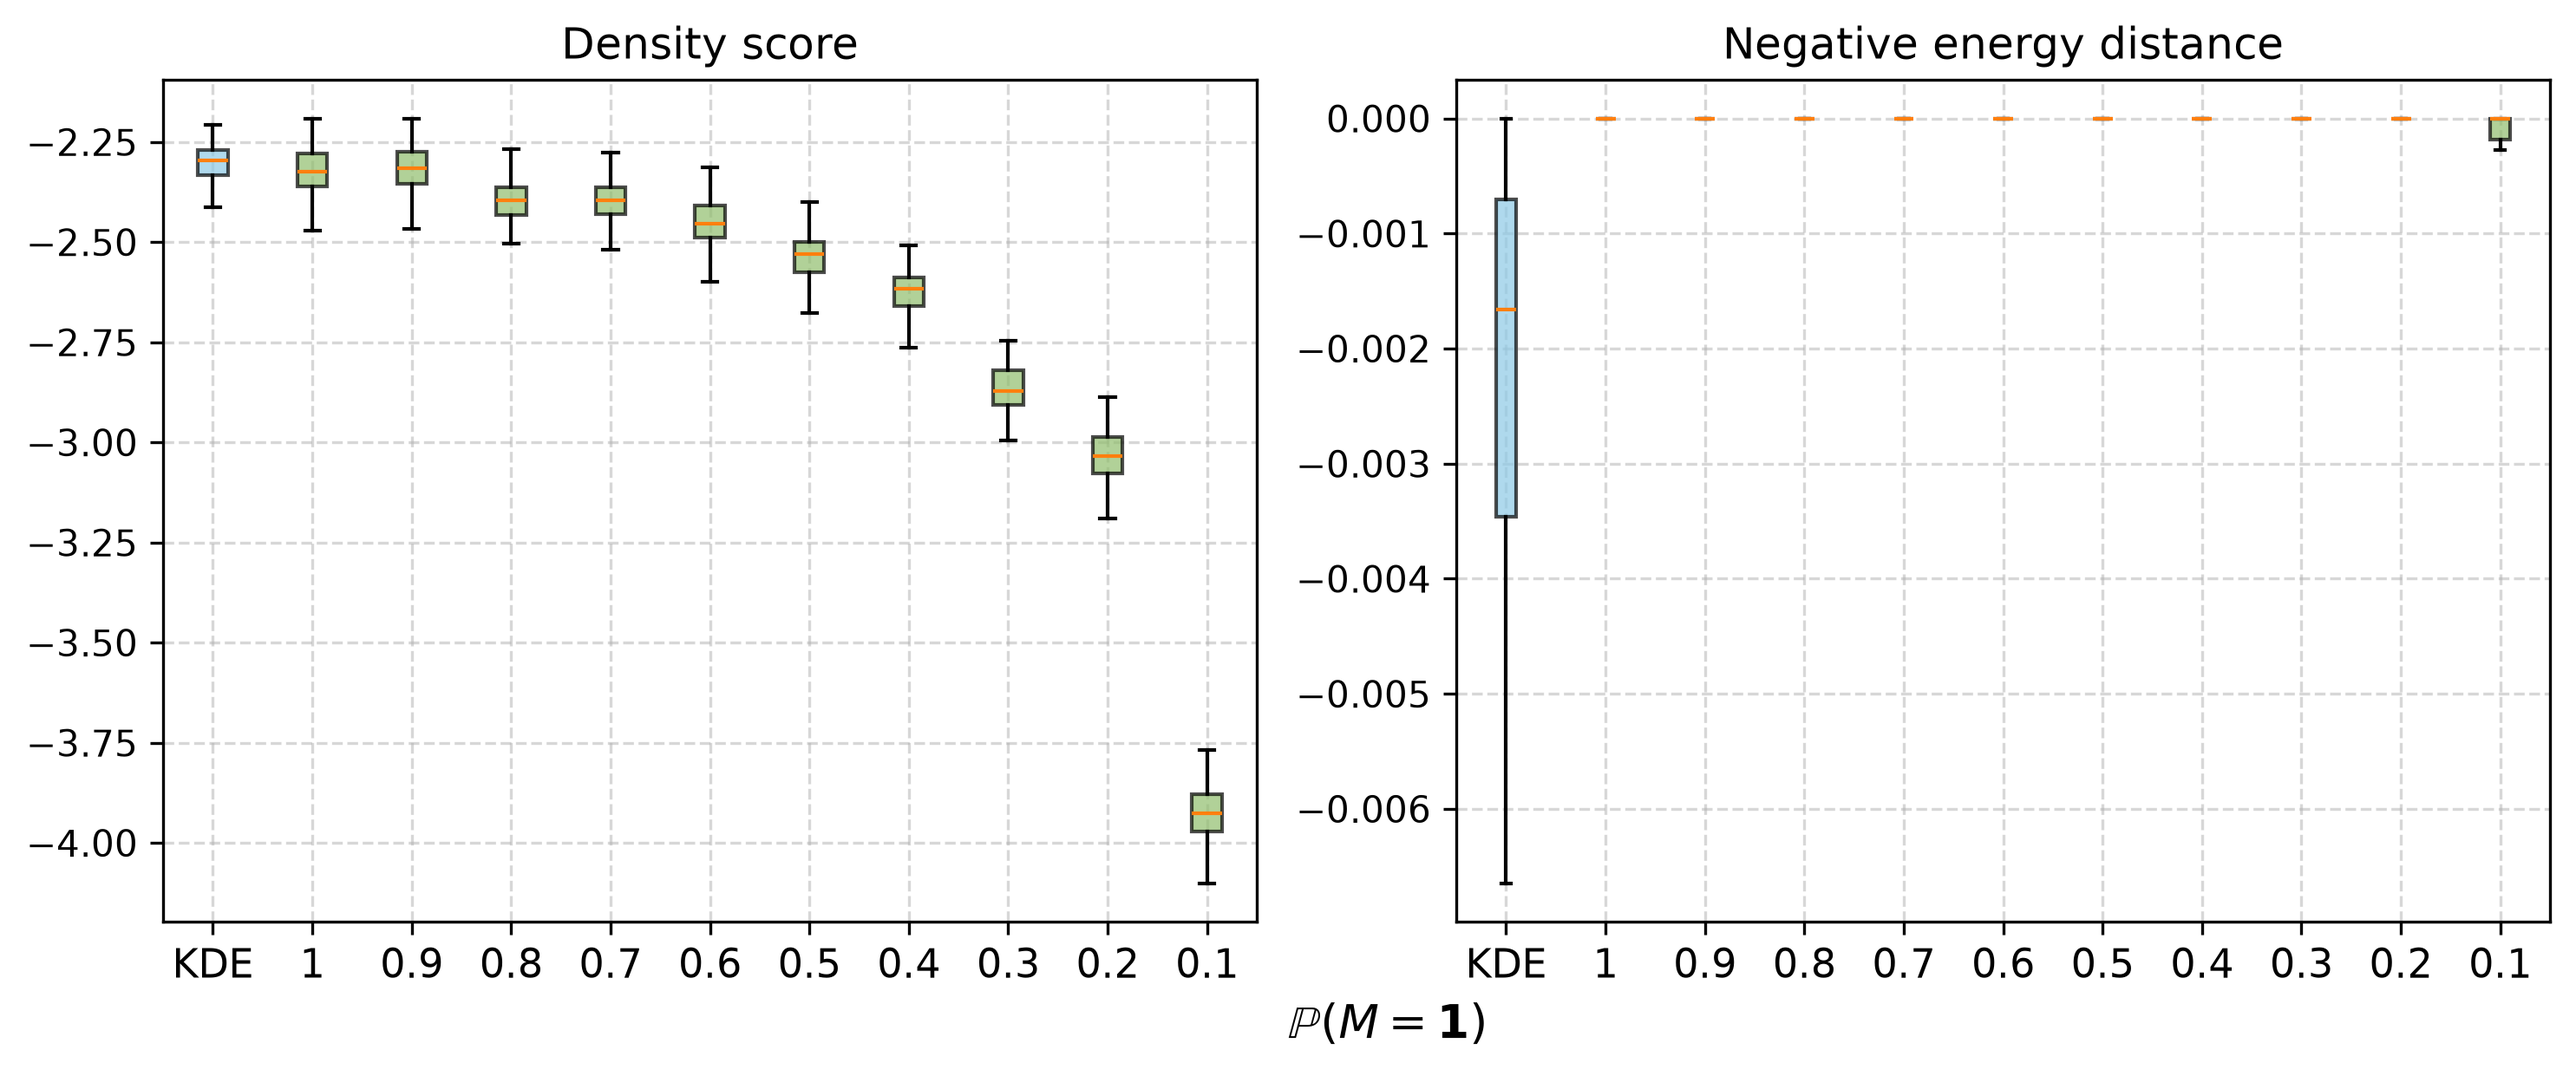
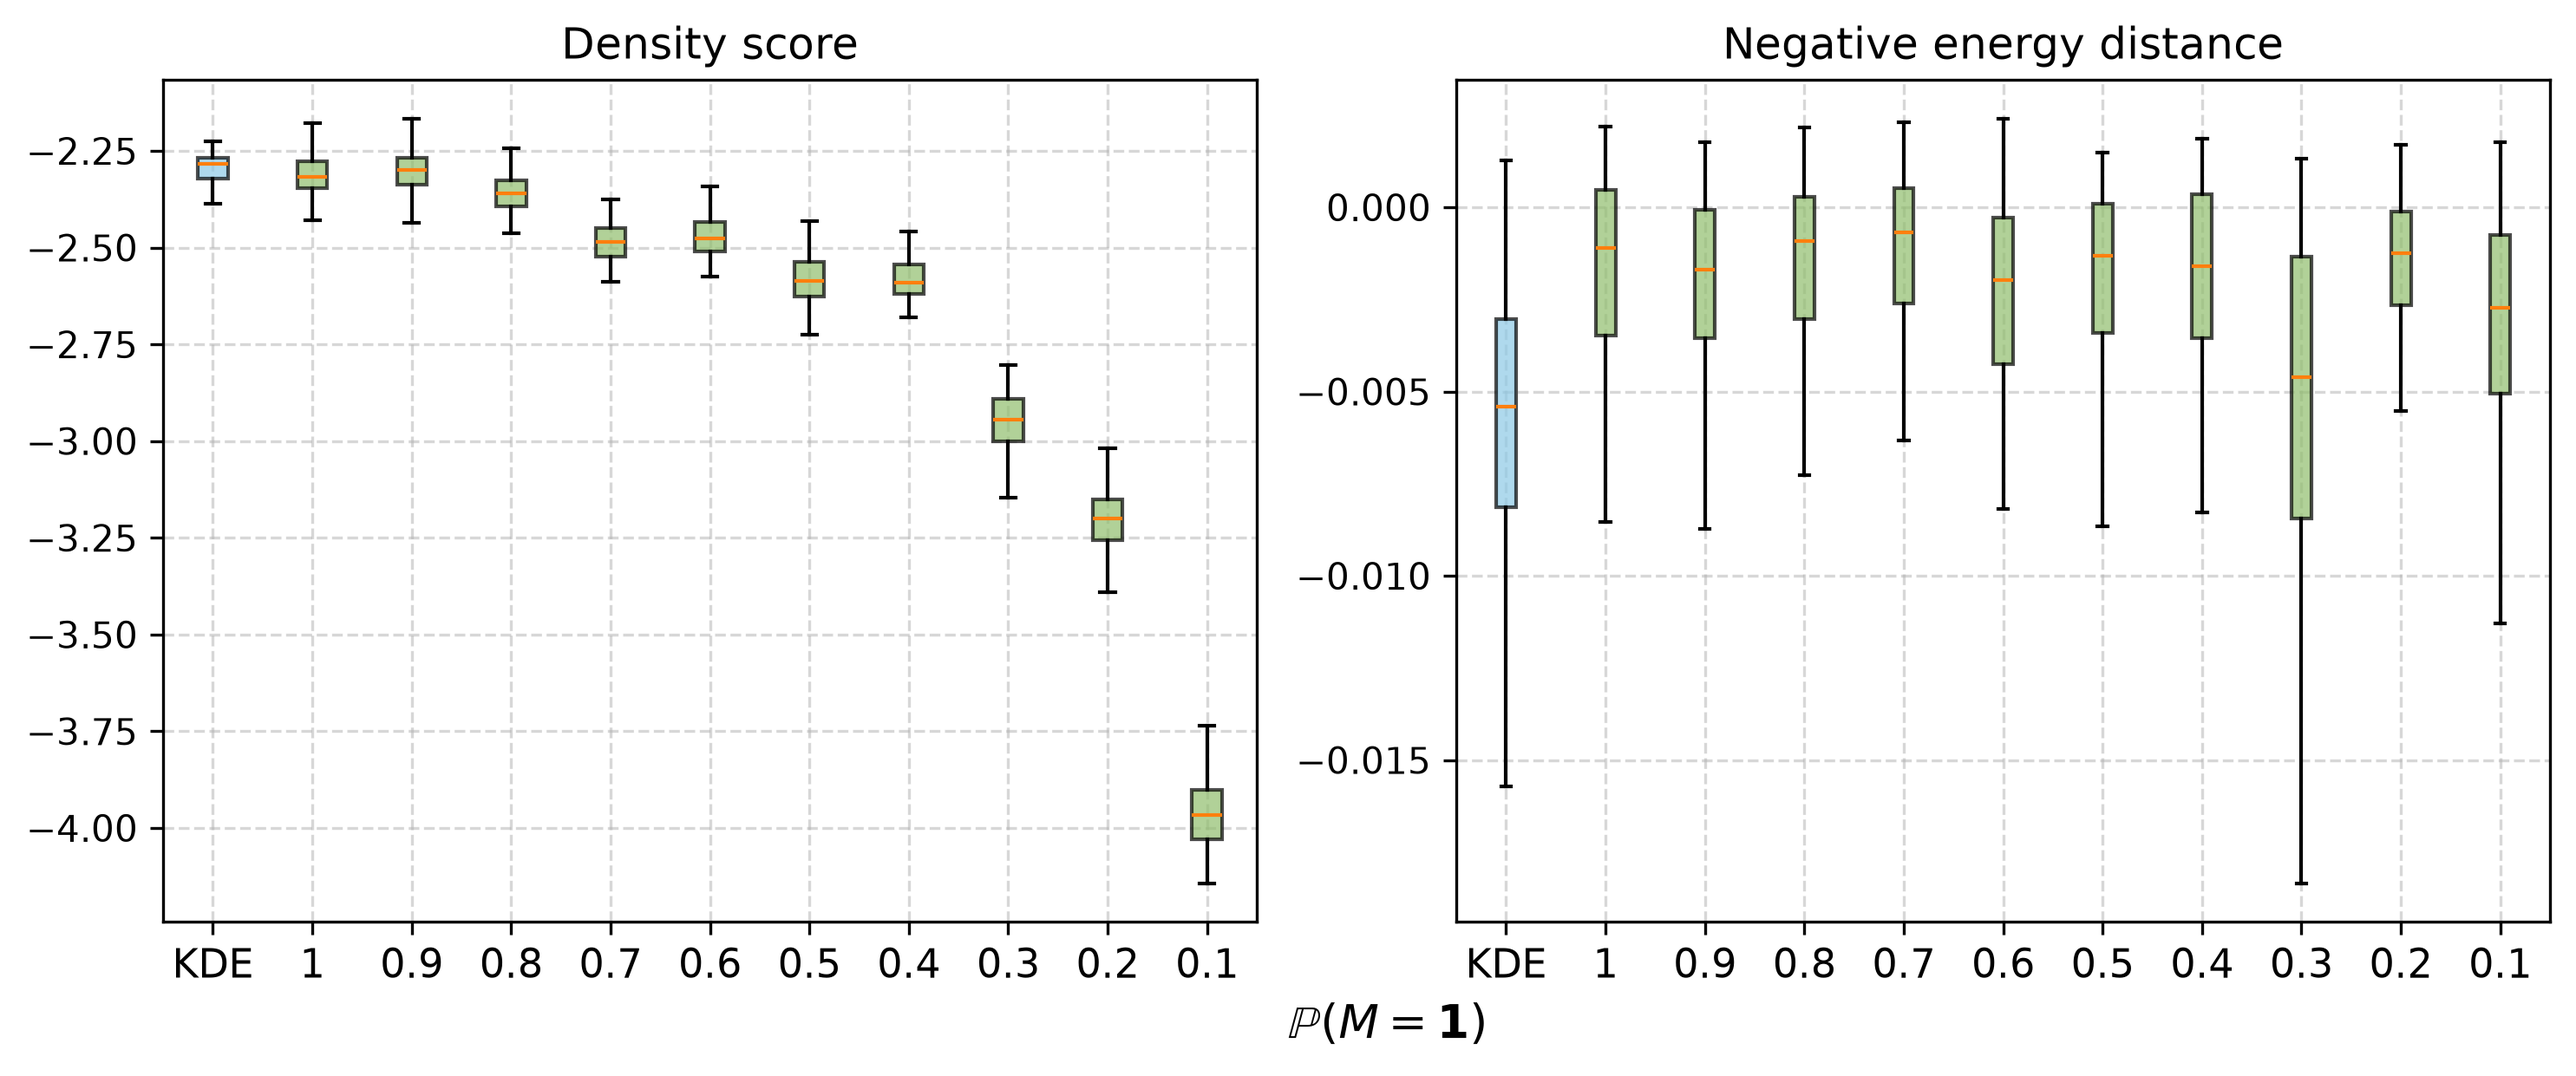
flowgem ed and delta

diff --git a/src/metrics.py b/src/metrics.py
@@ -2,35 +2,42 @@
 
 import torch
 from torch.distributions import Normal, Independent, MultivariateNormal
+from scipy.spatial.distance import cdist
+
+# def energy_distance(X, Y):
+#     """
+#     Compute the (squared) energy distance between two samples X ~ P, Y ~ Q.
+#     X: tensor of shape (n, d)
+#     Y: tensor of shape (m, d)
+    
+#     E(P, Q) = 2 * E||X - Y|| - E||X - X'|| - E||Y - Y'||
+#     """
+#     X = X.double()
+#     Y = Y.double()
+
+#     n, m = X.shape[0], Y.shape[0]
+
+#     # Pairwise distances
+#     d_XY = torch.cdist(X, Y, p=2)      # (n, m)
+#     d_XX = torch.cdist(X, X, p=2)      # (n, n)
+#     d_YY = torch.cdist(Y, Y, p=2)      # (m, m)
+
+#     term_XY = d_XY.mean()
+
+#     # exclude diagonal (i.e. X_i vs X_i, which is 0 and shouldn't bias things,
+#     # but standard practice is to use the unbiased version excluding self-pairs)
+#     term_XX = (d_XX.sum() - d_XX.diagonal().sum()) / (n * (n - 1))
+#     term_YY = (d_YY.sum() - d_YY.diagonal().sum()) / (m * (m - 1))
+
+#     ed = 2 * term_XY - term_XX - term_YY
+
+#     return ed #torch.clamp(ed, min=0.0) # avoid negative values
 
 def energy_distance(X, Y):
-    """
-    Compute the (squared) energy distance between two samples X ~ P, Y ~ Q.
-    X: tensor of shape (n, d)
-    Y: tensor of shape (m, d)
-    
-    E(P, Q) = 2 * E||X - Y|| - E||X - X'|| - E||Y - Y'||
-    """
-    X = X.double()
-    Y = Y.double()
-
-    n, m = X.shape[0], Y.shape[0]
-
-    # Pairwise distances
-    d_XY = torch.cdist(X, Y, p=2)      # (n, m)
-    d_XX = torch.cdist(X, X, p=2)      # (n, n)
-    d_YY = torch.cdist(Y, Y, p=2)      # (m, m)
-
-    term_XY = d_XY.mean()
-
-    # exclude diagonal (i.e. X_i vs X_i, which is 0 and shouldn't bias things,
-    # but standard practice is to use the unbiased version excluding self-pairs)
-    term_XX = (d_XX.sum() - d_XX.diagonal().sum()) / (n * (n - 1))
-    term_YY = (d_YY.sum() - d_YY.diagonal().sum()) / (m * (m - 1))
-
-    ed = 2 * term_XY - term_XX - term_YY
-
-    return torch.clamp(ed, min=0.0) # avoid negative values
+    XY = cdist(X, Y)
+    XX = cdist(X, X)
+    YY = cdist(Y, Y)
+    return (2 * XY.mean() - XX.mean() - YY.mean())* X.shape[0] / 2
 
 # Example usage:
 # data: tensor of shape (n, 3)

diff --git a/src/dg.py b/src/dg.py
@@ -17,6 +17,7 @@ class DataGenerator:
         sigma: torch.tensor = None,
         pi: torch.tensor = None,
         alpha: float = 0.7,
+        delta: float = 0.01,
         df: Optional[int] = None,
         device: str = "cpu",
         dtype=torch.float64,
@@ -25,6 +26,7 @@ class DataGenerator:
         #self.N = N
         self.distr = distr
         self.alpha = alpha
+        self.delta = delta
         self.df = df
         self.device = device
         self.dtype = dtype
@@ -41,6 +43,11 @@ class DataGenerator:
         if distr == 'gaussian_mixture' and (mu is None or sigma is None or pi is None):
             raise ValueError(
                 "Gassian mixture requires mu, sigma, pi"
+            )
+
+        if delta > 1/3:
+            raise ValueError(
+                "delta is too large (> 1/3)"
             )
 
     # --------------------------------------------------
@@ -229,17 +236,15 @@ class DataGenerator:
     # --------------------------------------------------
     def sample_missingness(
         self,
-        X,
-        delta=0.01
+        X
     ):
         U1,U2 = self.latent_uniforms(X)
-
 
         probs = torch.stack(
             [
                 (U1+U2)/3,
-                (2-U1)/3,
-                (1-U2)/3
+                (2-U1)/3 - self.delta, # X2 missing
+                (1-U2)/3 + self.delta # X1 missing
             ],
             dim=1
         )
@@ -253,17 +258,17 @@ class DataGenerator:
                 torch.ones(
                     d,
                     device=self.device
-                ),
+                ), #(1,1,1)
 
                 torch.arange(
                     d,
                     device=self.device
-                ) != 1,
+                ) != 1, #(1,0,1)
 
                 torch.arange(
                     d,
                     device=self.device
-                ) != 0,
+                ) != 0, #(0,1,1)
             ]
         )
 

diff --git a/src/run_experiments.py b/src/run_experiments.py
@@ -29,13 +29,14 @@ def run(
         ):
     
     _, d = X.shape
+    m = len(X_test)
 
     # Mask for complete data
     M_full = torch.ones_like(X)
 
     #------ KDE on complete data
     kde = gaussian_kde(X.T)
-    kde_ed = [energy_distance(X, torch.tensor(kde.resample(n_samples)).T).item() for _ in range(100)]
+    kde_ed = [energy_distance(X_test[i], torch.tensor(kde.resample(n_samples)).T).item() for i in range(m)]
 
     #------ MAR GM on complete data
     gmm_full = GaussianMixtureMAR(
@@ -49,7 +50,7 @@ def run(
     gmm_full.fit(X, M_full)
     print('best k =', gmm_full.best_k)
     # energy distance gainst train X
-    gmm_full_ed = [energy_distance(X, gmm_full.sample(n_samples)[0]) for _ in range(100)]
+    gmm_full_ed = [energy_distance(X_test[i], gmm_full.sample(n_samples)[0]) for i in range(m)]
 
     #------- SKlearn GM
     gmm_sk = GaussianMixture(
@@ -62,7 +63,7 @@ def run(
     # fit on complete data
     gmm_sk.fit(X)
     # energy distance gainst train X
-    gmm_sk_ed = [energy_distance(X, torch.tensor(gmm_sk.sample(n_samples)[0])) for _ in range(100)]
+    gmm_sk_ed = [energy_distance(X_test[i], torch.tensor(gmm_sk.sample(n_samples)[0])) for i in range(m)]
 
     #-------- MAR GM on different-missingness-level data
     eds = []
@@ -88,7 +89,7 @@ def run(
         gmm.fit(X_filled, M)
         print('best k =', gmm.best_k)
         # energy distance gainst train X
-        gmm_ed = [energy_distance(X, gmm.sample(n_samples)[0]) for _ in range(100)]
+        gmm_ed = [energy_distance(X_test[i], gmm.sample(n_samples)[0]) for i in range(m)]
         eds.append(gmm_ed)
         gms.append(gmm)
 

diff --git a/simulation.py b/simulation.py
@@ -3,30 +3,21 @@ from src.run_experiments import run
 from src.utils import plot1
 
 import torch
-import numpy as np
-import os
+import pandas as pd
 
-torch.manual_seed(42)
+#torch.manual_seed(42)
 
 dgms = ['gaussian_mixture_5', 'gaussian_mixture_20', 'Normal', 'Logistic', 'Logistic_d20']
 
-# global parameters
+#---------- Configurations ----------
 N = 2000
-
-# new samples
-n_samples = 2000
-
-# number of inits for the EM - sklearn and our method
-n_inits=20
-
+n_samples = 2000 # new samples
+n_inits=20 # number of inits for the EM - sklearn and our method
 crit = 'bic'
 ct = 'diag'
-
 pc = 0.5
 pam_range = [0.05, 0.1, 0.2, 0.3, 0.4]
-
 pc_range = [0.9, 0.8, 0.7, 0.6, 0.5, 0.4, 0.3, 0.2, 0.1]
-
 d = 3
 
 for dgm in dgms:
@@ -76,6 +67,7 @@ for dgm in dgms:
         var_complete=True
         )
 
+    # control missingness by P(worst missing pattern)
     # dss1, edss1, _ = run(
     #     X=X, 
     #     X_test=X_test,
